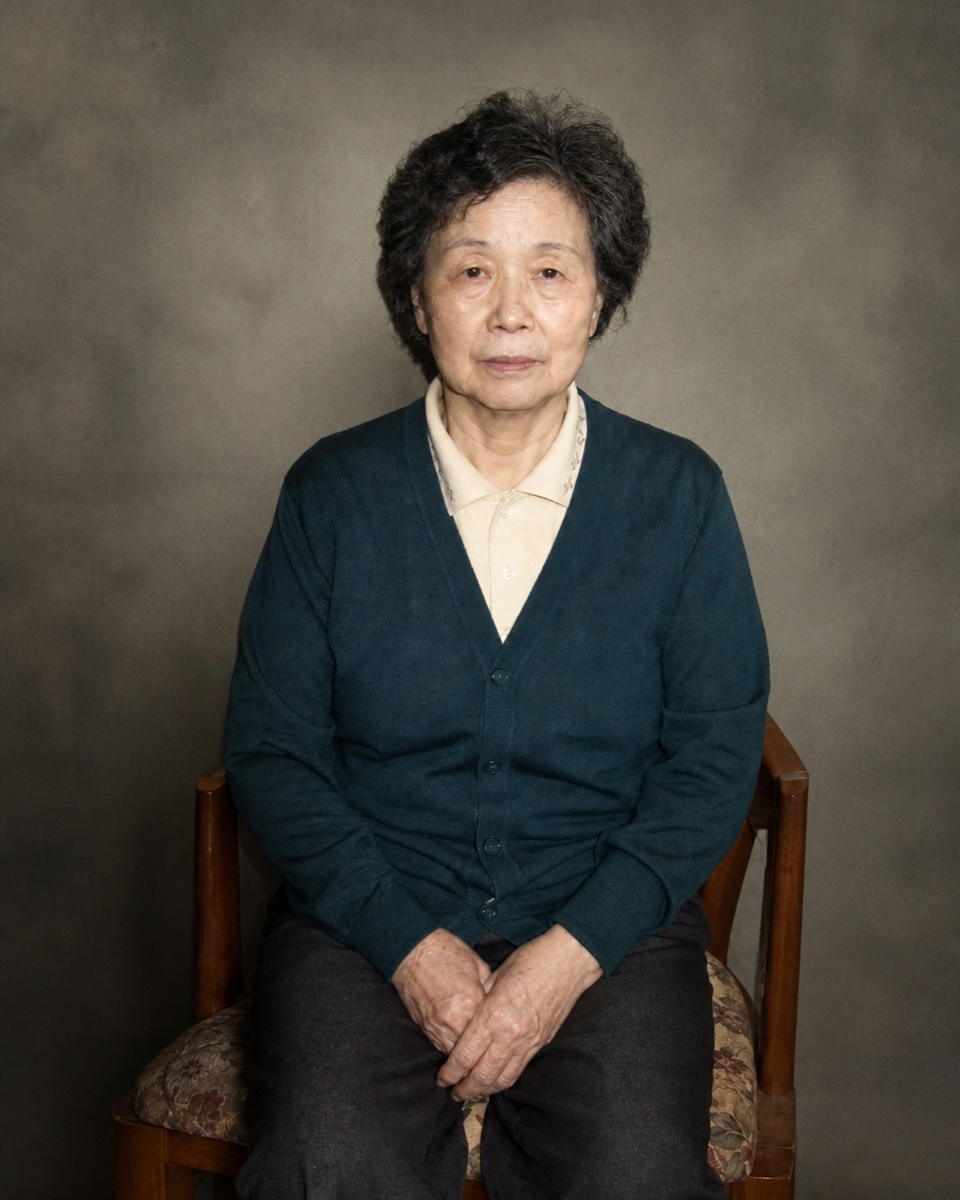
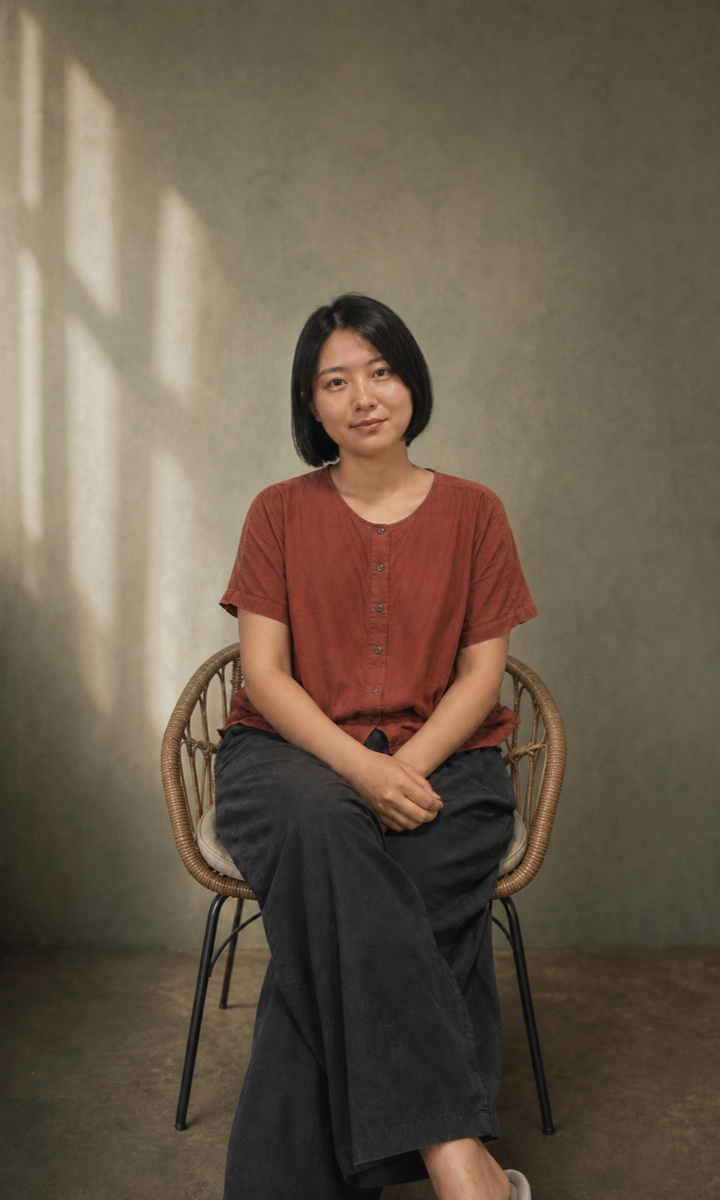
Replace Heritage Portrait example

diff --git a/README.md b/README.md
@@ -62,7 +62,7 @@ Every Before below is a newly generated, deliberately unpolished phone-style sou
 
 ### 8 · Heritage Portrait
 
-| Before · flash-lit living room | After · restrained silver-gelatin and hand-colored portrait |
+| Before · ordinary reading-corner snapshot | After · gentle silver-gelatin and hand-colored portrait |
 | --- | --- |
 | ![Ordinary portrait snapshot](examples/cases/v0.4-gallery/before/heritage-portrait.jpg) | ![Directed heritage portrait](examples/cases/v0.4-gallery/after/heritage-portrait.jpg) |
 
